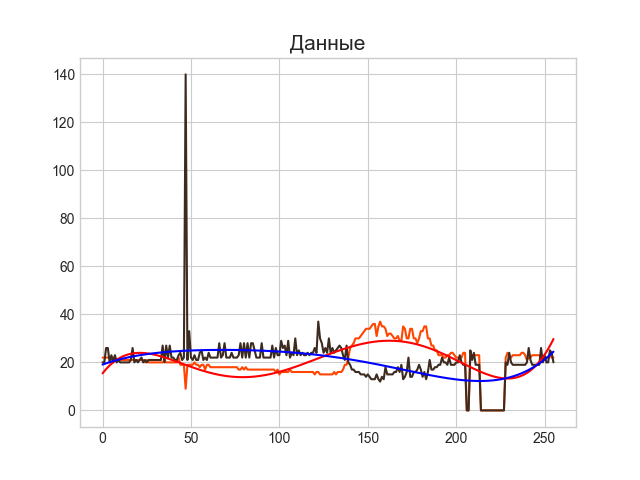
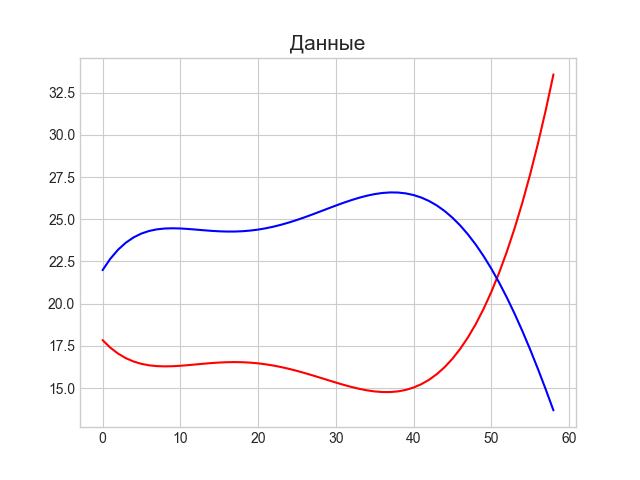
Версия 0.14.13

diff --git a/Основа.py b/Основа.py
@@ -16,7 +16,6 @@ import mainwindow
 # %% основные библиотеки
 
 import matplotlib as mpl
-
 import numpy as np
 import pandas as pd
 import matplotlib as mpl
@@ -166,8 +165,6 @@ class Mywindow(QtWidgets.QMainWindow, a):
 
     def podcluchenie_k_datchiky(self):
 
-
-
         con = sqlite3.connect("sensor.db")
         cur = con.cursor()
         cur.execute("""create table if not exists `sensor` ( 
@@ -190,6 +187,9 @@ class Mywindow(QtWidgets.QMainWindow, a):
             hum = sensor.read_humidity()
             passed_time.append(current_t)
 
+            self.label_4.setText(f"{temp}C" )
+            self.humidity_value.setText(f"{hum}%")
+
             all_tmp.append(temp)
             all_hum.append(hum)
             cur.execute("insert into sensor (temperature, humidity) values (%d, %d)" % (temp, hum))
@@ -207,14 +207,17 @@ class Mywindow(QtWidgets.QMainWindow, a):
 
             if current_t >= 3:
                 clear_tmp_smooth_approx, clear_hum_smooth_approx = get_data_with_approximation(passed_time, clear_tmp_smooth,clear_hum_smooth, 5)
-                plot_graph(passed_time, clear_tmp_smooth_approx, clear_hum_smooth_approx, ax = ax, line_1 = "red", line_2 = "blue", clear = False)
+                if raw_d == True:
+                    plot_graph(passed_time, clear_tmp_smooth_approx, clear_hum_smooth_approx, ax = ax, line_1 = "red", line_2 = "blue", clear = False)
+                if raw_d == False:
+                    plot_graph(passed_time, clear_tmp_smooth_approx, clear_hum_smooth_approx, ax=ax, line_1="red", line_2="blue", clear = True)
             plt.title("Данные", fontsize=15)
 
             plt.savefig("temp.png")
             self.label.setPixmap(QtGui.QPixmap("temp.png"))
 
             QApplication.processEvents()
-            QtTest.QTest.qWait(10)
+            QtTest.QTest.qWait(1000)
             current_t += 1
 
 
